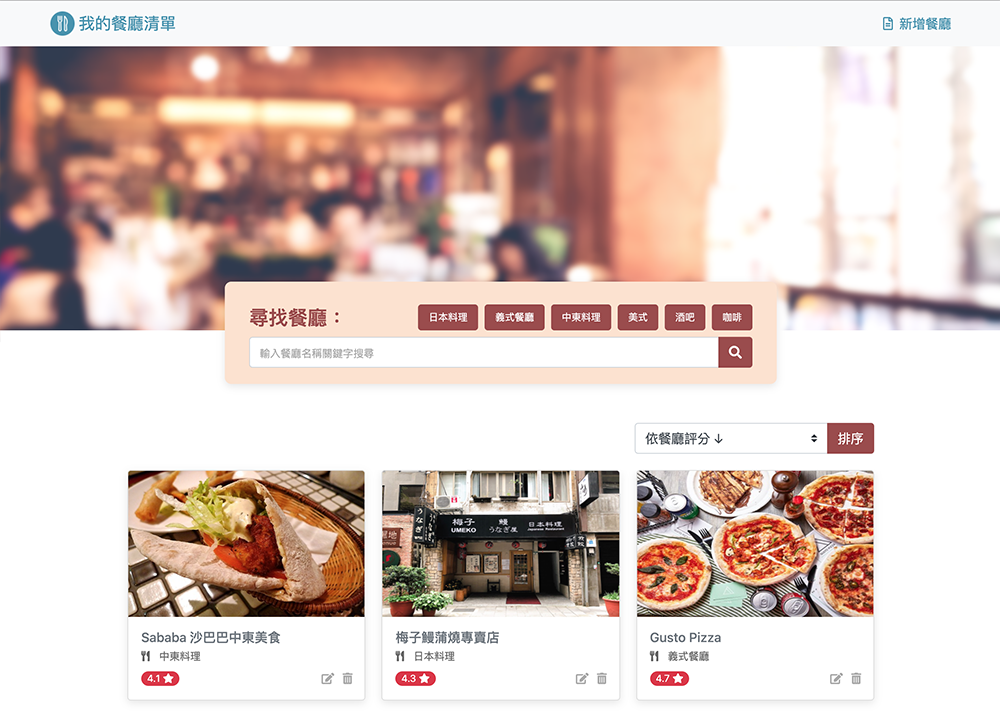
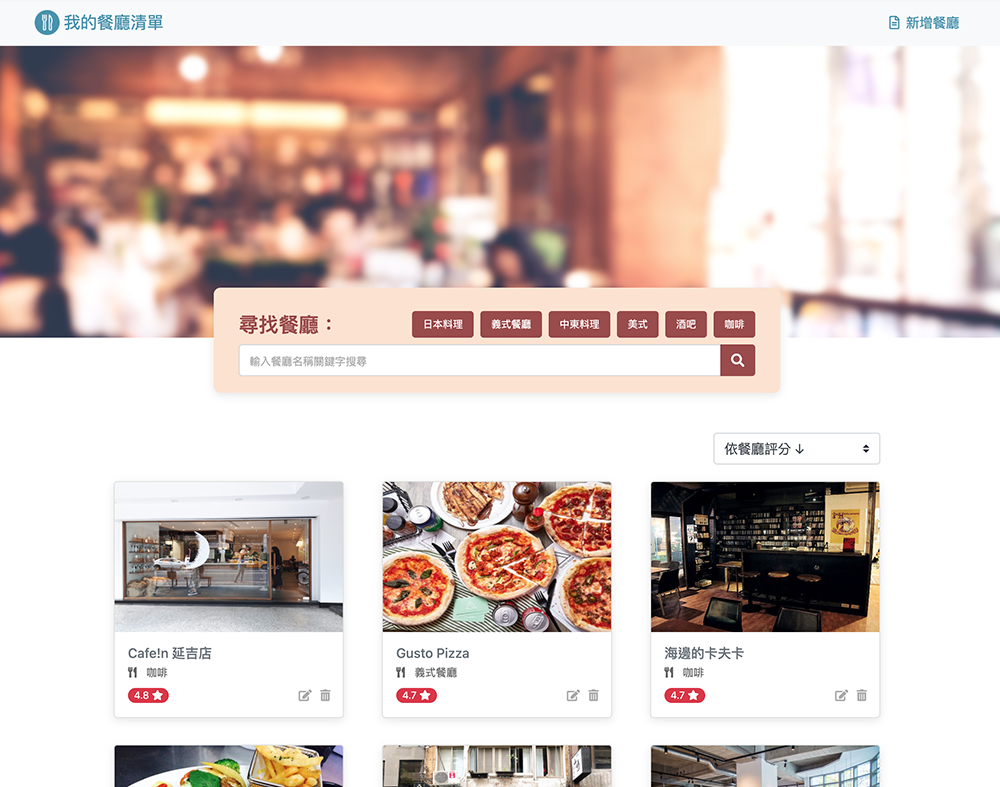
feat: update restaurants.js & modify style.css, index.hbs

diff --git a/public/stylesheet/style.css b/public/stylesheet/style.css
@@ -177,6 +177,7 @@ form.create-new #category option:first-child {
 }
 
 .index .item {
+  width: 30%;
   position: relative;
 }
 .index .item:hover {
@@ -197,7 +198,7 @@ form.create-new #category option:first-child {
   margin-bottom: 20px;
 }
 #sort .input-group {
-  max-width: 295px;
+  max-width: 200px;
 }
 
 
@@ -221,11 +222,13 @@ form.create-new #category option:first-child {
   }
 }
 @media screen and (max-width: 575px) {
-  
+  .index .item {
+    width: 100%;
+  }
   .card img{
     height: auto;
   }
   .index .control-panel {
-    bottom: 4%;
+    bottom: 8%;
   }
 }

diff --git a/routes/modules/restaurants.js b/routes/modules/restaurants.js
@@ -13,7 +13,7 @@ router.get('/new', (req, res) => {
 })
 
 // 將新增的餐廳資料傳到資料庫
-router.post('', (req, res) => {
+router.post('/', (req, res) => {
   const restaurant = req.body // 從 req.body 拿出表單裡的所有資料，並存放在 restaurant
   return Restaurant.create(restaurant) // 透過 create() 將資料存入資料庫
     .then(() => res.redirect('/')) // 新增新增完成後導回首頁
